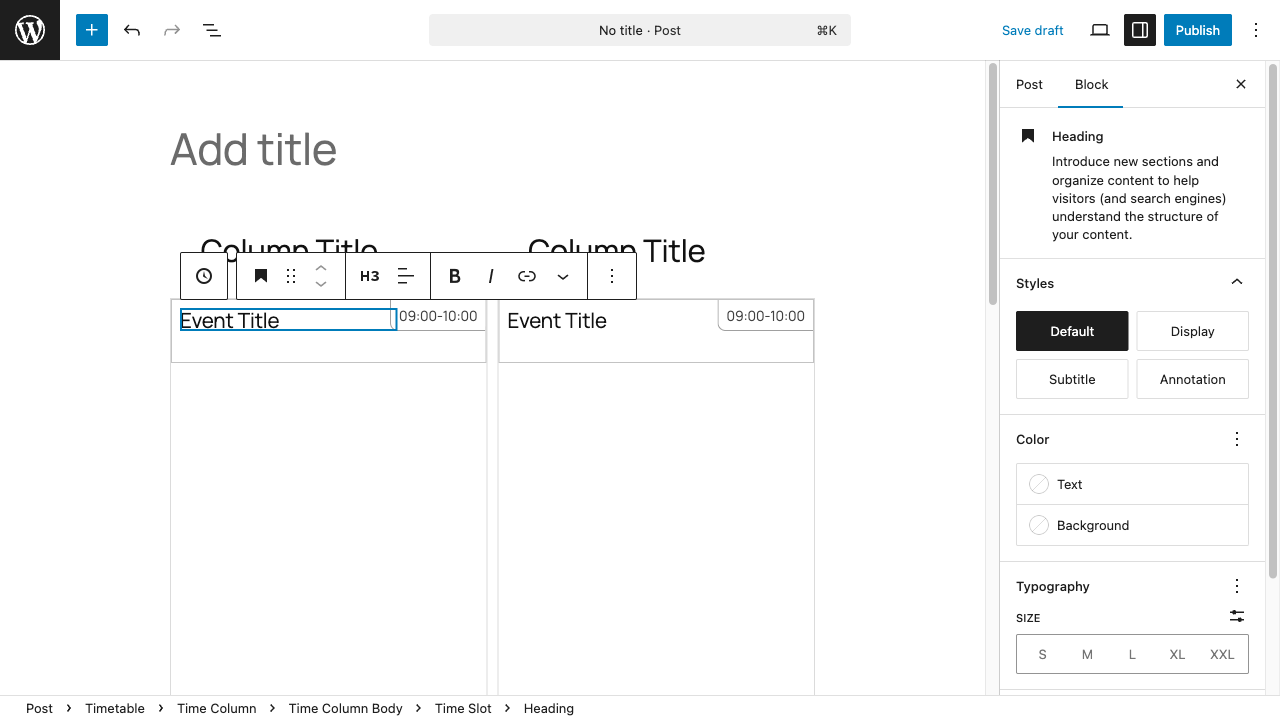
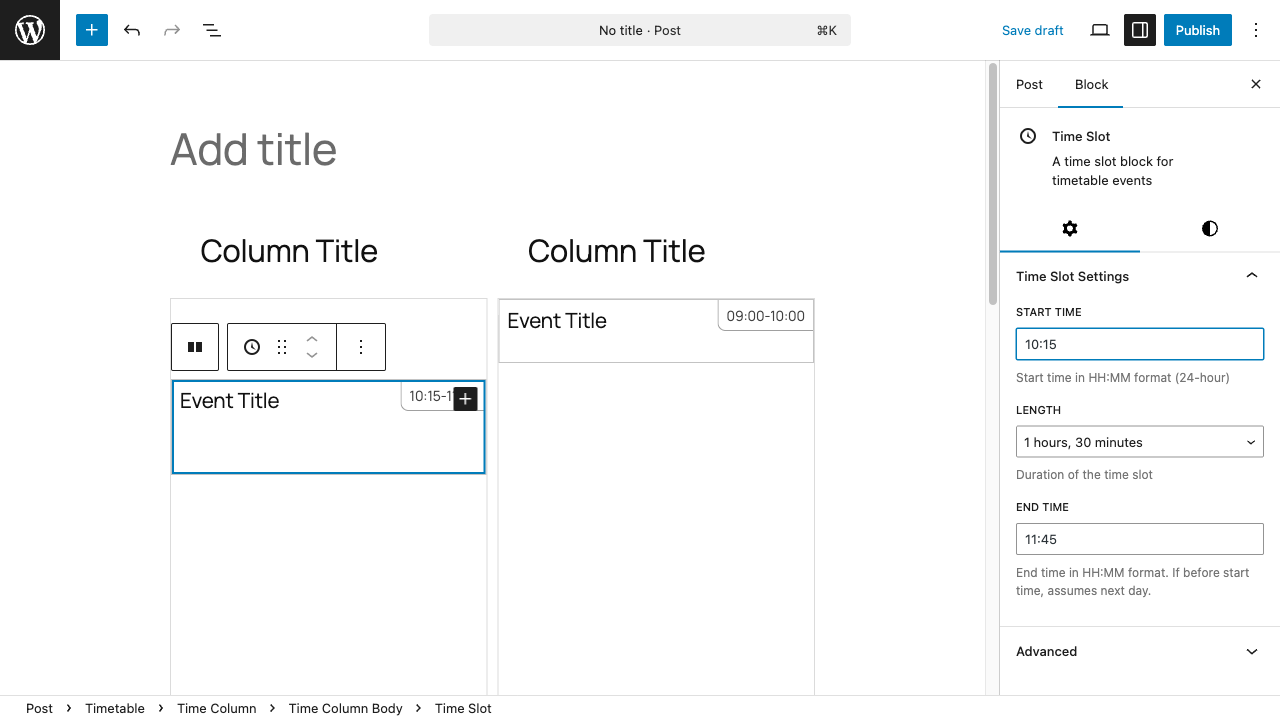
Add e2e for hourly range changes

diff --git a/fair-timetable/e2e/wordpress-org.spec.js b/fair-timetable/e2e/wordpress-org.spec.js
@@ -72,13 +72,16 @@ test.describe('WordPress.org Screenshot for Fair Timetable', () => {
 		);
 
 		// Clear and set the start time to 10:15
-		await startTimeInput.click();
-		await startTimeInput.selectAll();
+		await startTimeInput.clear();
 		await startTimeInput.fill('10:15');
 
-		// Press Tab to confirm the change and trigger onChange
-		await startTimeInput.press('Tab');
-		await page.waitForTimeout(1500); // Allow time for re-render
+		// Select the dropdown by its select element
+		await page.selectOption(
+			'select.components-select-control__input',
+			'1.5'
+		);
+
+		await page.waitForTimeout(500); // Allow time for re-render
 
 		// Take screenshot-1 of the editor with timetable blocks (full viewport)
 		await page.screenshot({
